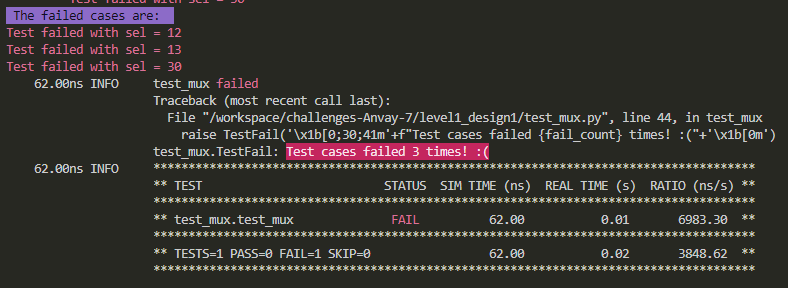
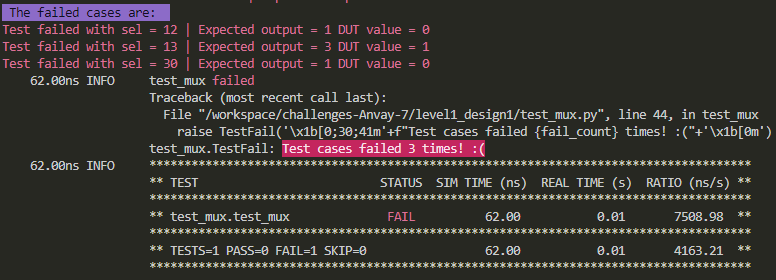
readme mux done

diff --git a/level1_design1/test_mux.py b/level1_design1/test_mux.py
@@ -33,7 +33,7 @@ async def test_mux(dut):
             assert dut.out.value == inputs[sel_value]
         except AssertionError as e:
             fail_count+=1
-            fail_msg='\33[31m'+f"Test failed with sel = {sel_value}"+'\x1b[0m'
+            fail_msg='\33[31m'+f"Test failed with sel = {sel_value} | Expected output = {inputs[sel_value]} DUT value = {int(dut.out.value)}"+'\x1b[0m'
             failed_cases.append(fail_msg)
             print("\t",fail_msg)
 

diff --git a/level1_design1/readme.md b/level1_design1/readme.md
@@ -1,4 +1,10 @@
+## Mux Design Verification 
+<br />
+<img src="./images/mux_error.PNG" alt="Mux error" />
+<br />
+
 ## Verification Environment
+
 The test drives inputs to the Design Under Test (mux module here) which takes in  31 2-bit inputs *(inp0-inp30)*, a 5-bit select line *(sel)* and gives out a 2-bit output *(out)*
 The values are assigned to the input port using
 
@@ -17,6 +23,56 @@ The assert statement in a try - except block is used to collect all the bugs (an
 	    fail_msg='\33[31m'+f"Test failed with sel = {sel_value}"+'\x1b[0m'
 	    failed_cases.append(fail_msg)
 	    print("\t",fail_msg)
-
 The following error is seen:
+<br />
 <img src="./images/mux_error.PNG" alt="Mux error" />
+<br />
+## Test Scenario
+
+**Failed cases:**
+Case 1
+ - Test Inputs; sel = 12, inp12 = 1
+- Expected Output: out = 1
+ - Observed Output in the DUT: dut.out = 0
+
+Case 2
+ - Test Inputs; sel = 13, inp13 = 3
+- Expected Output: out = 3
+ - Observed Output in the DUT: dut.out = 1
+
+Case 3
+ - Test Inputs; sel = 30, inp30 = 1
+- Expected Output: out = 1
+ - Observed Output in the DUT: dut.out = 0
+
+Output mismatches for the above three cases proving that there are design bugs.
+
+## Design Bug
+Based on the above test inputs and analysing the design, we see the following
+**BUG1**
+
+    5'b01101: out = inp12;   =====> BUG
+    5'b01101: out = inp13;
+    
+The case condition should be `5'b01100 :  out = inp12` instead of  `5'b01101 :  out = inp12` as in the design code.
+**BUG2**
+
+    5'b11101: out = inp29;
+     default: out = 0;
+There is a case statement missing for sel = 5'b11110. Therefore `5'b11110: out =inp30` should be added after the case statement for sel = 5'b11101.
+
+## Design Fix
+Updating the mux design and re-running the test makes the test pass.
+<br />
+<img src="./images/mux_correct.PNG" alt="Mux proper" />
+<br />
+The updated design is checked as in `mux.v` in the folder `level1_design1_corrected`
+
+## Verification Strategy
+Here:
+ - inp0-inp30 : They are assigned randomly generated integers in between 0 and 3
+ - sel : It is looped from 0 to 31
+The same inputs are stored in a dictionary with the select line value as the key. At the end the DUT value and dictionary value for the same select line value are compared to check for bugs.
+
+## Is the verification complete?
+The test is run multiple times. As the inputs are random in nature and we check for all the possible select line values in a single test, after running the test multiple times, we are able to capture all the possible bugs present in the design.
